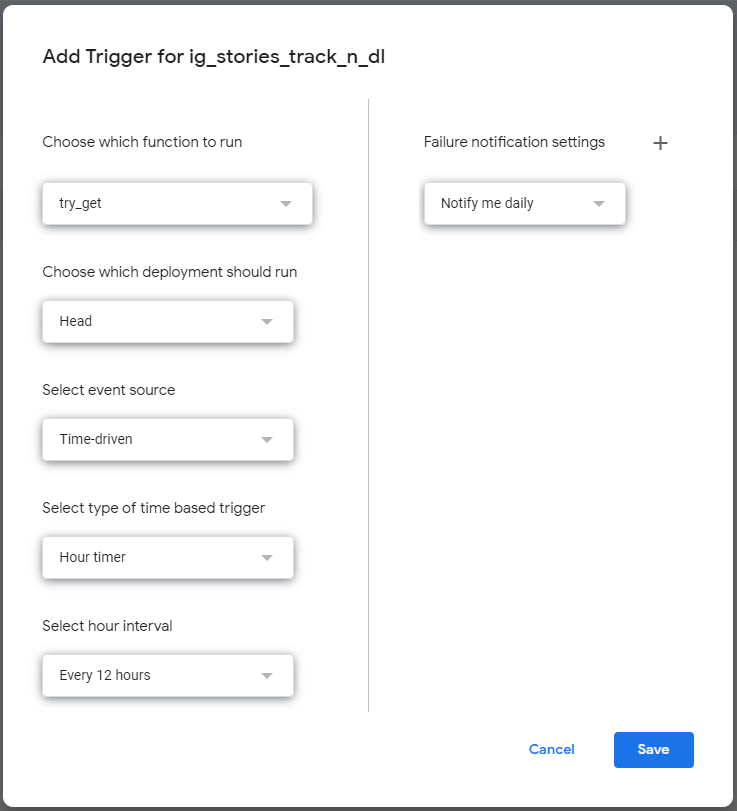
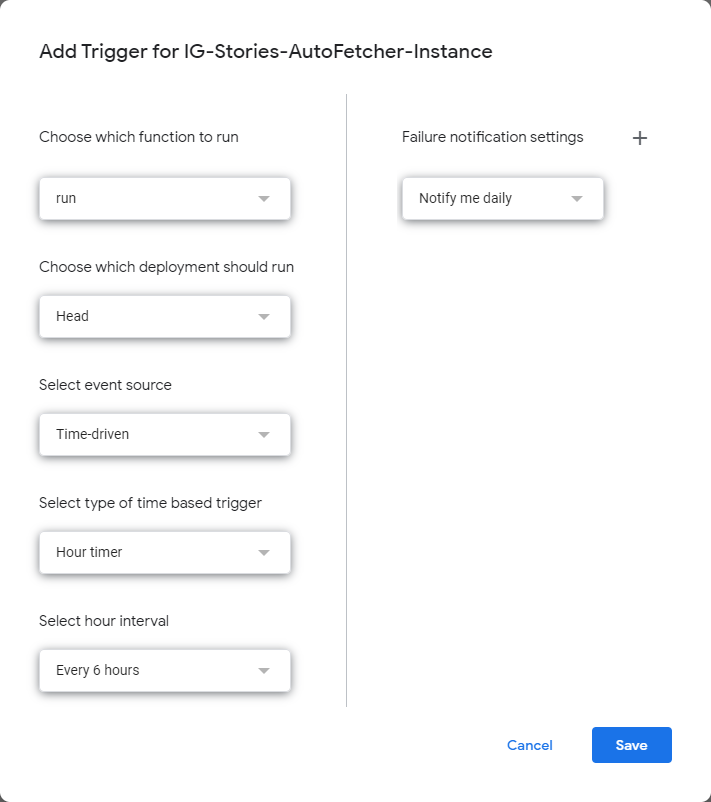
Update README for Build 2021.11.10

diff --git a/README.md b/README.md
@@ -1,109 +1,201 @@
-# AutoFetcher for Saving IG Stories to GDrive
+# IG Stories to GDrive Fetcher
 
-A Google App Script for deploying a web application that automatically fetches the latest available IG Stories of a target Instagram user to your Google Drive.
+A Google Apps Script to automatically fetch the latest available IG Stories of a target Instagram user to your Google Drive.
 
 [![clasp](https://img.shields.io/badge/built%20with-clasp-4285f4.svg)](https://github.com/google/clasp) [![code style: prettier](https://img.shields.io/badge/code_style-prettier-ff69b4.svg?style=flat-square)](https://github.com/prettier/prettier) ![GitHub](https://img.shields.io/github/license/chriskyfung/AutoFetcher-IG-Stories-to-GDrive)
- ![Last Tested Date](https://drive.google.com/u/0/uc?id=1VnSH5wtVOJXd_kmZsCSd3yQSpXTjMr0E&export=download) ![Service Status](https://drive.google.com/u/0/uc?id=1BCyF1y8m1LKj8Um77st-3KC5-sTESoUZ&export=download)
+![Service Status](https://drive.google.com/u/0/uc?id=1BCyF1y8m1LKj8Um77st-3KC5-sTESoUZ&export=download) ![Last Tested Date](https://drive.google.com/u/0/uc?id=1VnSH5wtVOJXd_kmZsCSd3yQSpXTjMr0E&export=download)
 
 ## How to Use
 
-1. Create a new App Script project in your Google account, and open the project in the App Script Editor.
+Starting from Build 2021.11.10, the Apps Script has been redesigned to work with a Google Sheet file as a user interface.
 
-2. Copy the scripts under the `gascript` folder to your App Script Editor.
+Make a copy of our Google Sheet template to your Google Drive by clicking the button below.
 
-3. Open `code.js` and replace the following variables with your own values, and save the file.
+<div style="padding-left: 1.5em">
+  <a href="https://docs.google.com/spreadsheets/d/1VucEhAUn-mq2Z38QrVGa9GdFrmHY4UCPMCi6mrWRnQI/copy">
+    <img src="https://img.shields.io/badge/Google%20Sheet-34a853?logo=googlesheets&logoColor=white" height="28" alt="">
+  </a>
+</div>
 
-    ```js
-    // User-defined Variables
-    var g_username = 'your username for this app';
-    var g_password = 'your password for this app';
-    var gdrive_id = 'your google drive folder id for storing the downloaded files';
-    var lastlog_id = '<your google doc ID for storing last tracking log>';
-    var historylog_id = '<your google doc ID for storing history log>';
-    var crashReportEmail = '<your email for receiving crash report>';
+The spreadsheet contains the following three sheets:
 
-    // New variables in Build 2020.06.02
-    var COOKIE = 'Your cookie passed in request header';
+**Subscriptions**
+: A table for you to list the Instagram users and their IDs that you want to subscribe to.
 
-    // New variables in Build 2020.10.08
-    var statusBadge_id = '<your google drive file ID of Test Status Badge>';
-    var lastTestedBadge_id = '<your google drive file ID of Last Tested Badge>';
+**Logs**
+: A log sheet of file download activities.
 
-    // New variables in Build 2020.12.09
-    var X_IG_APP_ID = '<your x-ig-app-id in the request header>';
-    var X_IG_WWW_CLAIM = '<your x-ig-www-claim in the request header>';
-    ```
+**Settings**
+: A tabular form for you to fill in the values of options and parameters for running the script.
 
-4. Deploy the updated App Script project as a web application, and authorize the app to read and write files in your Google Drive.
+You can use the Google Sheet file and bound our script to it in the following ways:
 
-5. Copy the URL of the deployed web application, like `https://script.google.com/<your-app-path>/exec?`
+| Method                                                                                                        | Descriptions                                                                                                                                                                                      | Remarks                                                                                        |
+| ------------------------------------------------------------------------------------------------------------- | ------------------------------------------------------------------------------------------------------------------------------------------------------------------------------------------------- | ---------------------------------------------------------------------------------------------- |
+| Use our shared library                                                                                        | Simply use the copy of our Google Sheet template. The functions to import and use our library are already present in the pre-built script bound to the Google Sheet template.                     | <ul><li>No coding</li><li>Easy version upgrade</li><li>Unable to deploy as a web app</li></ul> |
+| Inject our code into your project                                                                             | Modify the script bounded to your Google Sheet file by copying the source code in `/dist/bundle.js` to a `.gs` file and following the example below to call the functions from the `IGSF` object. | <ul><li>Standalone</li></ul>                                                                   |
+| [Deploy a new library](https://developers.google.com/apps-script/guides/libraries#create_and_share_a_library) | Create a new Apps Script project, copy copying the source code in `/dist/bundle.js` to it, and deploy the project as a library for other scripts.                                                 | <ul><li>Self-hosted</li><li>Reusable code across projects</li></ul>                            |
 
-Now you can test the application by passing a url like this, `https://script.google.com/<your-app-path>/exec?usr=<app_username>&pwd=<app_password>&target={"name":"nasa","id":"528817151"}`.
+## Configuration Settings
 
-`ig_user_id` is necessary to query the data of the target Instagram user from the official web API. You can obtain the ID with the username by using [the ID finder powered by The Code of a Ninja](https://codeofaninja.com/tools/find-instagram-user-id). The application will track and download the photos and videos to your Google Drive folder, if it finds any new IG stories from the target Instagram account.
+Google Drive
 
-## How to find your `COOKIE`, `X_IG_APP_ID`, and `X_IG_WWW_CLAIM`
+- Folder ID (Optional)
+  : The ID of a Google Drive folder that serves as the default save location. Media files will be downloaded to the Google Drive root folder if this value is unspecified.
 
-1. Visit `www.instagram.com` and login to your account using a desktop browser, such as Chrome or Firefox.
+Instagram
+
+- x-ig-app-id
+  : The value of `x-ig-app-id` request-header field sends when you browse `www.instagram.com` with logging in to an account.
+
+- x-ig-www-claim
+  : The value of `x-ig-www-claim` request-header field sends when you browse `www.instagram.com` with logging in to an account.
+
+- cookie
+  : The value of `cookie` request-header field sends when you browse `www.instagram.com` with logging in to an account.
+
+Health Monitoring
+
+- Badge File IDs (Optional)
+
+  - Tested Date
+    : The Google Drive file ID of `last-tested-date.svg` badge, which shows show the last execution date of `test_pipeline()`.
+
+  - Health Status
+    : The Google Drive file ID of `last-tested-status.svg` badge, which shows if the last execution of `test_pipeline()` was "passed" or "failed".
+
+- Error Report (Optional)
+
+  - Email To
+    : The email address to receive an error message when the execution of `test_pipeline()` returns a "failed" status.
+
+### How to find the values of `x-ig-app-id`, `x-ig-www-claim`, and `cookie`
+
+1. Visit `www.instagram.com` and log in to your account using a desktop browser, such as Chrome or Firefox.
 2. Open the DevTool by pressing **F12** or choose **Inspect** from the right-click menu on the page.
 3. Open the **Network** tab, then enter `?reel_ids=` in the filter.
 4. Go back to the Instagram page and click on an IG story.
-5. While the stories are playing on the screen, new items named `?reel_ids=...` will iteratively added to the list of request items.
+5. While the stories are playing on the screen, new items named `?reel_ids=...` will be iteratively added to the list of request items.
 6. Click on one of the fetched items and explore its Headers.
-7. Scroll to the **Request Header** section, grab the value of **cookie** as the picture below. ![Find Instagram cookie using Chrome DevTools](/docs/images/find-your-instagram-cookie-with-devtools.png)
+7. Scroll to the **Request Header** section, grab the value of your **cookie** as in the picture below. ![Find Instagram cookie using Chrome DevTools](/docs/images/find-your-instagram-cookie-with-devtools.png)
 8. Also, copy the values of `x-ig-app-id` and `x-ig-www-claim` at the bottom of the same section.
 
-## How to set up your Status Badges
+## Set Up Subscriptions
 
-1. Upload two SVG image files to you Google Drive.
+Add the name and ID of your target Instagram user accounts to the table on the page "Subscriptions"
 
-    ![Status Badges](/docs/images/status-badges.png)
+The **Instagram User ID** is necessary to query the data of the target Instagram user from the official web API. You can look up the ID with username by using [the ID finder powered by The Code of a Ninja](https://codeofaninja.com/tools/find-instagram-user-id).
 
-2. Share the files to view publicly.
+For example, label **bbcnews** as the name in the first column and put its ID **16278726** in the second column to subscribe to the stories from [BBC News's Instagram account](https://www.instagram.com/bbcnews/).
 
-3. Copy their File IDs as the values of `statusBadge_id` and `lastTestedBadge_id` variables, respectively.
+It will fetch the photos and videos from Instagram and upload them to your Google Drive folder if it finds any new stories from the listed accounts when you click on the <kbd>▶Run</kbd> button.
 
-4. Copy their Download URLs to your website or monitoring page.
+## Create Time-driven Trigger for Auto-Run
 
-## How to configure an Auto-Run
+You can manually create a trigger with the following steps:
 
-1. At the end of the file `code.js`, make a copy the function `try_get()` and give it a new unique function name. and replace the value of the `target` field to the Instagram account you're willing to fetch.
+1. Open an Apps Script Editor from your Google Sheet file.
+2. At the left, click **Triggers** ⏰.
+3. At the bottom right, click **Add Trigger**.
+4. In the dialog, choose `run` as the function to run and configure an appropriate time interval (6 - 12 hours) to run periodically, as the example below.
 
-2. Go to your Google Developer Hub, and create a new trigger for this project.
+   ![Setup a Google App Script Timed Trigger](/docs/images/setup_a_google_app_script_timed_trigger.png)
 
-3. In the Add Trigger Dialog, choose the function name that you previously copied. Also, select an appropriate time interval (6 - 12 hours) to call the function, as the example below.
+## Set Up Health Monitoring (Optional)
 
-![Setup a Google App Script Timed Trigger](/docs/images/setup_a_google_app_script_timed_trigger.png)
+Instagram changes its API endpoint and data structure occasionally without any announcements. Therefore, you may want to set up a health monitoring to check if the script requests and handles the Instagram API data properly.
 
-## Configure Crash Report
+`test_pipeline()` is a function to perform a health check, trigger badge updates, and error report emails. The health check is considered passing if it detects a presence of stories from the following Instagram accounts,
 
-For Build 2020.06.05, a new function called `test_pipeline()` has been added to check if there are any stories shown from the Instagram accounts of BBCNews, NASA and Medium. Since they publish stories frequently, there should be always one or more items available. The function will send an email to your specified email address if it fetches no URLs to download.
+- bbcnews,
+- cnn,
+- medium, and
+- nasa.
 
-1. Enter your email to `historylog_id` in line 7.
+The health check is likely passing because these accounts publish stories frequently. If a health check fails but not an absence of stories on the Instagram accounts, it points out an error occurring in accessing the API endpoint or interpreting media URLs from the data.
 
-2. Go to your Google Developer Hub, and create a new trigger for this project.
+You can set up a periodic health check with the following steps:
 
-3. In the Add Trigger Dialog, choose **test_pipeline** and select Daily timer.
+1. Open an Apps Script Editor from your Google Sheet file.
+2. Add the following code to a `.gs` file:
+
+   ```js
+   function runTestPipeline() {
+     const IGSF = IGStoriesToGDrive.getInstance();
+     IGSF.test_pipeline();
+   }
+   ```
+
+3. At the left, click **Triggers** ⏰.
+4. At the bottom right, click **Add Trigger**.
+5. In the dialog, choose `runTestPipeline` as the function to run and configure an appropriate timer.
+6. (Optional) In your Google Sheet file, fill in an email address for error reporting on the page "Settings".
+
+### Create and Register your Status Badges
+
+1. Open the page "Settings" in your Google Sheet file.
+2. Click the <kbd>+ Create badges</kbd> button to execute `createBadges()`.
+3. Open your Google Drive, you should see the two badge files, `last-tested-date.svg` and `last-tested-status.svg`, are created in the destination folder.
+
+   ![Status Badges](/docs/images/status-badges.png)
+
+4. Go back to the spreadsheet, their file IDs should be found on the page **Settings**.
+
+5. Share the SVG files to view publicly and copy their Download URLs if you want to display them on a website or monitoring page.
+
+## Deploy As a Web App (Optional)
+
+You can [publish the script as a web app](https://developers.google.com/apps-script/guides/web) and trigger the script with HTTP GET requests.
+
+**NOTE**: _The current version only supports web app deployment if you inject our source code directly into your Apps Script project_.
+
+To protect your deployed endpoint, you are required to set a username and password. Copy the following code to your project and replace `myUsername` and `myPassword` with your values:
+
+```js
+function setUserProperties() {
+  PropertiesService
+      .getUserProperties()
+      .setProperty('AUTH_USERNAME', 'myUsername')
+      .setProperty('AUTH_PASSWORD', 'myPassword');
+}
+```
+
+Run `setUserProperties()` once to store your username and password as secret  properties. After that, this code is no longer necessary and you can remove it.
+
+Now you can test your web app deployment by passing a URL with query strings like this, `https://script.google.com/<YOUR_APP_PATH>/exec?usr=<AUTH_USERNAME>&pwd=<AUTH_PASSWORD>&target={"name":"bbcnews","id":"16278726"}`.
+
+## About Privacy
+
+1. No sensitive data, like your Instagram username, password, cookies, credentials, and tokens, will be shared with our developers.
+2. The Apps Script, which bounds to a Google Sheet file that stores in your Google Drive will only run and be able to access with your Google Account unless you share the file with other users or place it in a shared folder.
+3. Self-hosting the code as a standalone project if you want better protection of your data.
+4. Do not use our script or shared library if you have any worries about any potential security issues with them.
 
 ## History
 
-🚧 **AN IMPORTANT UPDATE ON 2021-09-12** 🚧
+🌟🚀 **MAJOR UPGRADE ON 2021-11-08** 🚀🌟
+
+Integration of Google Sheet was made to provide a user-friendly GUI for configurations and loggings.
+The new version allows you to set up your subscriptions and user settings easily and systematically, rather than hard coding them in the Apps Script.
+Logs will also store in the same Google Sheet file instead of saving separately in multiple Google Doc files.
+
+🚧 **IMPORTANT UPDATE ON 2021-09-12** 🚧
 
 ([#17](https://github.com/chriskyfung/AutoFetcher-IG-Stories-to-GDrive/issues/17)) Google Drive Drive will apply a security update on September 13, 2021. Please update your Apps Script code to avoid failing access to Google Drive files.
 
-🚧 **AN IMPORTANT UPDATE ON 2020-12-09** 🚧
+🚧 **IMPORTANT UPDATE ON 2020-12-09** 🚧
 
 ([#11](https://github.com/chriskyfung/AutoFetcher-IG-Stories-to-GDrive/issues/11)) Instagram changed code around noon, 7 Dec, UTC. Please update to Build 2020.12.09.
 
 🆕 **REMOVE THIRD-PARTY DEPENDENCIES in Build 2020.06.05** 🆕
 
-Start from the version Build 2020.06.05, all story data and files will be fetched directly from Instagram.com.
+Starting from Build 2020.06.05, all story data and files will be fetched directly from Instagram.com.
 
 🔔 **LAST UPDATE ON 2020-06-05** 🔔
 
-The version Build 2020.05.14 works again as storydownloader.net resumed their service on 2020-06-05.
+The version Build 2020.05.14 works again as storydownloader.net resumed its service on 2020-06-05.
 
-🚧 **AN IMPORTANT UPDATE ON 2020-06-02** 🚧
+🚧 **IMPORTANT UPDATE ON 2020-06-02** 🚧
 
 The version Build 2020.05.14 failed on 2020-06-02 due to the suspension of the download source, storydownloader.net. The data of IG stories has been changed to fetch from the official site in the new version Build 2020.06.02.
 
@@ -112,6 +204,7 @@ The version Build 2020.05.14 failed on 2020-06-02 due to the suspension of the d
 Would you like to buy me a coffee? I would really appreciate it if you could support me for the development.
 
 <a href="https://www.buymeacoffee.com/chrisfungky"><img src="https://www.buymeacoffee.com/assets/img/custom_images/orange_img.png" alt="Buy Me A Coffee" style="height: 41px !important;width: 174px !important;box-shadow: 0px 3px 2px 0px rgba(190, 190, 190, 0.5) !important;-webkit-box-shadow: 0px 3px 2px 0px rgba(190, 190, 190, 0.5) !important;" target="_blank"></a>
+
 ## License
 
 Distributed under the [GNU Affero General Public License v3.0](LICENSE.md)
